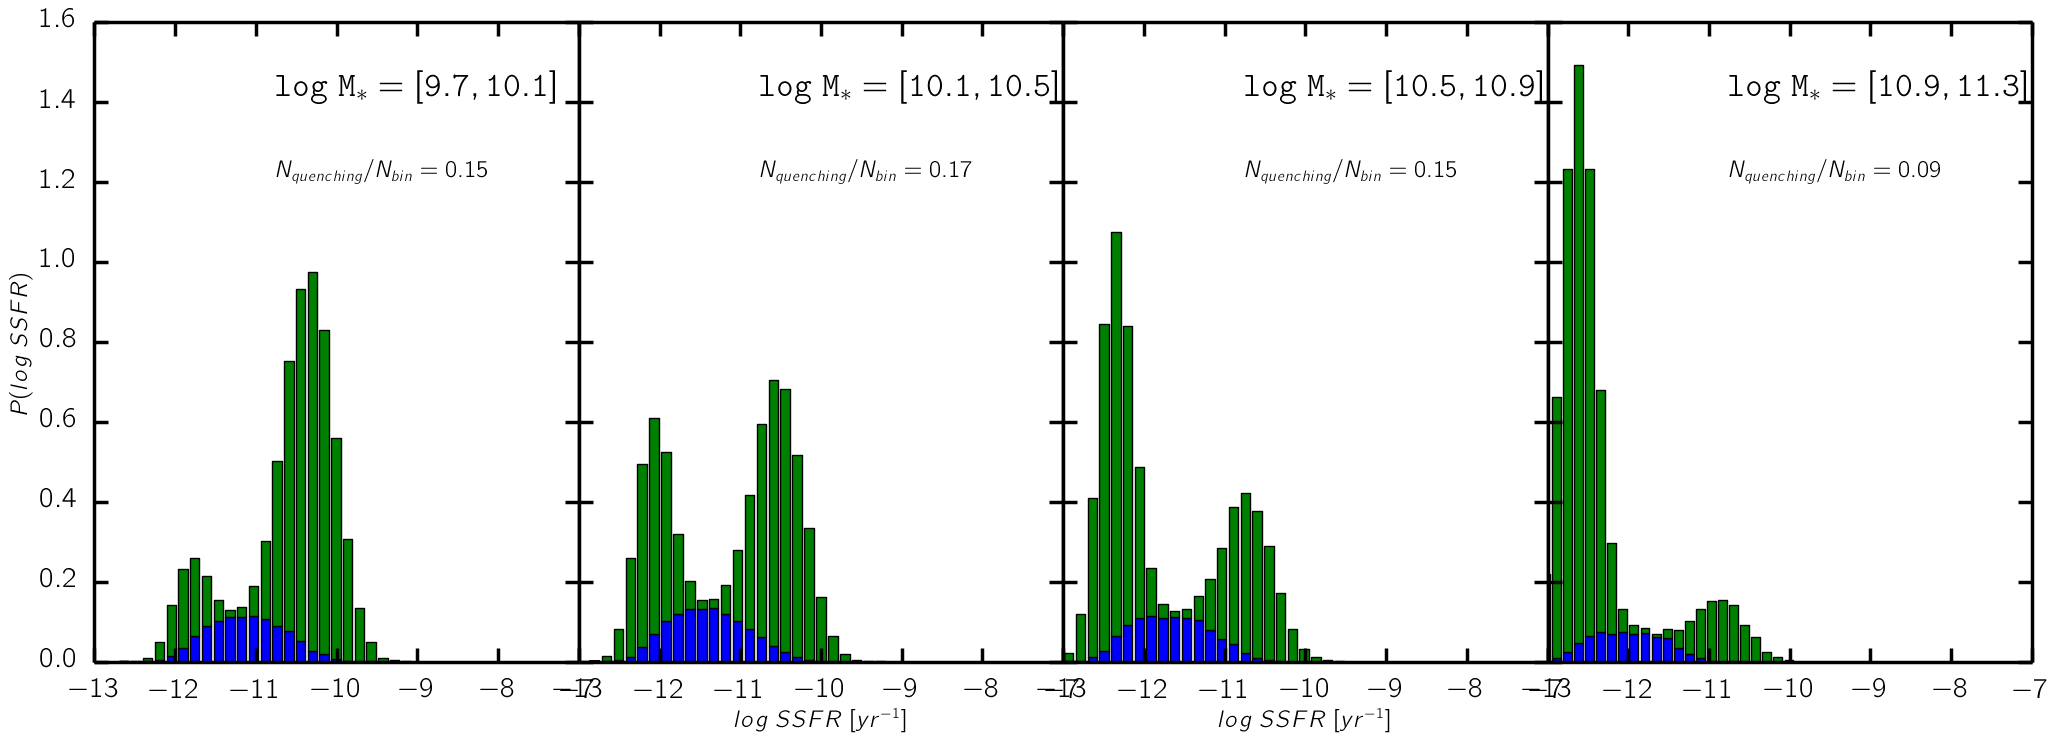
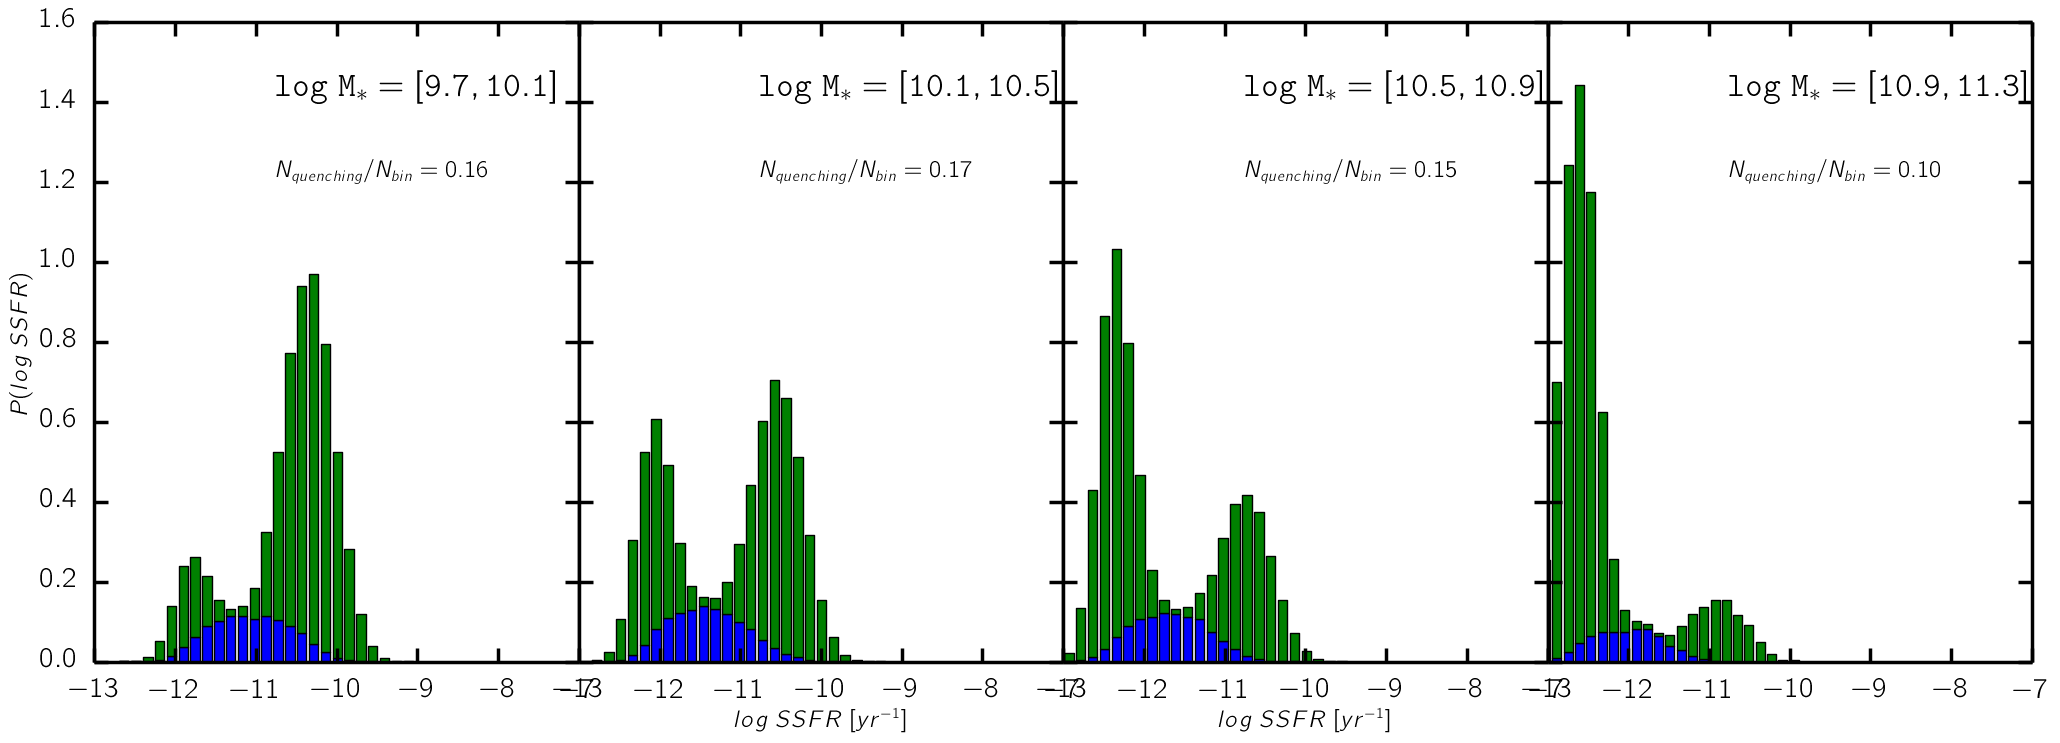
fitting quenching timescale; some decent fits generated, but needs to be refined

diff --git a/cenque_plot.py b/cenque_plot.py
@@ -631,8 +631,30 @@ def plot_snapshot_fqobs_evol(nsnaps=[1,2,3,4,5,6,7,8,9,10,11,12],fq_type='wetzel
     subs[1].set_xlabel('Mass') 
 
     subs[0].set_ylabel('Quiescent Fraction') 
+    
+    # Quenching Fraction specifier 
+    if 'fqing_slope' in kwargs.keys(): 
+        fqing_slope_str = str(kwargs['fqing_slope'])
+    else: 
+        fqing_slope_str = str(0.63)
 
-    fig_file = 'figure/fq_obs_snapshot.png'
+    if 'fqing_yint' in kwargs.keys(): 
+        fqing_yint_str = str(kwargs['fqing_yint'])
+    else: 
+        fqing_yint_str = str(-6.04) 
+
+    fqing_str = ''.join([fqing_slope_str, '_', fqing_yint_str, 'fqing']) 
+
+    # tau specifier
+    if kwargs['tau'] == 'discrete': 
+        tau_str = '_'.join( [str("%.1f" % t) for t in kwargs['tau_param']] )+'tau'
+    elif kwargs['tau'] == 'linefit':
+        tau_str = '_'.join( [str("%.2f" % t) for t in kwargs['tau_param']] )+'tau'
+    else: 
+        tau_str = kwargs['tau']+'tau'
+
+    fig_file = ''.join(['figure/', 
+        'fq_obs_snapshots_', tau_str, '_', fqing_str, '.png'])
     fig.savefig(fig_file, bbox_inches='tight')
     fig.clear()
     plt.close(fig)
@@ -693,7 +715,29 @@ def plot_snapshot_fqobs(nsnap, fq_type='wetzel', **kwargs):
     subs.set_ylabel('Quiescent Fraction') 
     subs.legend(loc='upper left') 
 
-    fig_file = 'figure/fq_obs_snapshot'+str(nsnap)+'.png'
+    # Quenching Fraction specifier 
+    if 'fqing_slope' in kwargs.keys(): 
+        fqing_slope_str = str(kwargs['fqing_slope'])
+    else: 
+        fqing_slope_str = str(0.63)
+
+    if 'fqing_yint' in kwargs.keys(): 
+        fqing_yint_str = str(kwargs['fqing_yint'])
+    else: 
+        fqing_yint_str = str(-6.04) 
+
+    fqing_str = ''.join([fqing_slope_str, '_', fqing_yint_str, 'fqing']) 
+
+    # tau specifier
+    if kwargs['tau'] == 'discrete': 
+        tau_str = '_'.join( [str("%.1f" % t) for t in kwargs['tau_param']] )+'tau'
+    elif kwargs['tau'] == 'linefit':
+        tau_str = '_'.join( [str("%.2f" % t) for t in kwargs['tau_param']] )+'tau'
+    else: 
+        tau_str = kwargs['tau']+'tau'
+
+    fig_file = ''.join(['figure/', 
+        'fq_obs_snapshot', str(nsnap), '_', tau_str, '_', fqing_str, '.png'])
     fig.savefig(fig_file, bbox_inches='tight')
     fig.clear()
     plt.close(fig)
@@ -1158,19 +1202,20 @@ if __name__=='__main__':
     #plot_cenque_ssfr_dist_evolution(nsnaps=[1], Mrcut=19, tau='linear')
     #plot_cenque_ssfr_dist_evolution(nsnaps=[1], Mrcut=18, tau='linear')
     
-    #plot_quenching_efold(['linear', 'linefit', 'linefit'], [[], [-0.4, 0.2], [-0.5, 0.3]]) 
-
-    plot_cenque_ssfr_dist_evolution(nsnaps=[2], Mrcut=20, tau='linefit', tau_param=[-0.6, 0.3])
-    plot_cenque_ssfr_dist_evolution(nsnaps=[1], Mrcut=19, tau='linefit', tau_param=[-0.6, 0.3])
-    plot_cenque_ssfr_dist_evolution(nsnaps=[1], Mrcut=18, tau='linefit', tau_param=[-0.6, 0.3])
+    #plot_quenching_efold(['linear', 'linefit', 'linefit'], [[], [-0.6, 0.3], [-0.6, 0.4]]) 
     
-    for i in range(1,13): 
-        plot_cenque_quenching_ssfr_dist(i, tau='linefit', tau_param=[-0.6, 0.3])
+    tau_str = 'linefit'
+    tau_param_str = [-0.6, 0.4]
+    plot_cenque_ssfr_dist_evolution(nsnaps=[2], Mrcut=20, tau=tau_str, tau_param=tau_param_str)
+    plot_cenque_ssfr_dist_evolution(nsnaps=[1], Mrcut=19, tau=tau_str, tau_param=tau_param_str)
+    plot_cenque_ssfr_dist_evolution(nsnaps=[1], Mrcut=18, tau=tau_str, tau_param=tau_param_str)
+    
+    #for i in range(1,13): 
+    #    plot_cenque_quenching_ssfr_dist(i, tau='linefit', tau_param=[-0.6, 0.3])
 
-    plot_snapshot_fqobs_evol(nsnaps=[1,2,3,4,5,6,7,8,9,10,11,12], fq_type='wetzelsmooth', tau='linefit', tau_param=[-0.6, 0.3])
+    plot_snapshot_fqobs_evol(nsnaps=[1,2,3,4,5,6,7,8,9,10,11,12], fq_type='wetzelsmooth', tau=tau_str, tau_param=tau_param_str)
     for i in range(1,13): 
-        plot_snapshot_fqobs(i, fq_type='wetzelsmooth', tau='linefit', tau_param=[-0.6, 0.3])
-
+        plot_snapshot_fqobs(i, fq_type='wetzelsmooth', tau=tau_str, tau_param=tau_param_str)
     #plot_ssfms_groupcat(Mrcut=18)
     #plot_ssfms_groupcat(Mrcut=19)
     #plot_ssfms_groupcat(Mrcut=20)

diff --git a/cenque.py b/cenque.py
@@ -620,19 +620,19 @@ def EvolveCenQue(origin_nsnap, final_nsnap, mass_bin=None, **kwargs):
             elif (mass_bins.mass_mid[i_m] < 11.5): 
                 alpha = 2.0 
             '''
-            alpha = 2.0
+            alpha = 3.0
             quenching_fraction = 0.05 * (mass_bins.mass_mid[i_m] - 9.5) * (1.8 - child_cq.zsnap)**alpha 
             quenching_fractions.append(quenching_fraction)
 
             quenching_fraction = np.float(ngal_2quench)/np.float(ngal_totalq)
             quenching_fractionss.append(quenching_fraction)
             
-            alpha = 2.0
+            alpha = 3.0
             fqing1 = 0.05 * (mass_bins.mass_mid[i_m] - 9.5) * (1.8 - child_cq.zsnap)**alpha 
                 
             fqing2 = np.float(ngal_2quench)/np.float(ngal_totalq)
 
-            if (mass_bins.mass_mid[i_m] < 10.5) and (fqing2 > fqing1): 
+            if (mass_bins.mass_mid[i_m] < 10.75) and (fqing2 > fqing1): 
                 quenching_fraction = fqing1
             else: 
                 quenching_fraction = fqing2
@@ -730,4 +730,4 @@ if __name__=='__main__':
     #EvolveCenQue(13, 1, fqing_yint=-5.84, tau='instant')  
     #tau='linefit', tau_param=[-0.5, 0.4]) 
     #EvolveCenQue(13, 1, fqing_yint=-5.84, tau='linefit', tau_param=[-0.4, 0.2])
-    EvolveCenQue(13, 1, tau='linefit', tau_param=[-0.6, 0.3])
+    EvolveCenQue(13, 1, tau='linefit', tau_param=[-0.6, 0.4])
